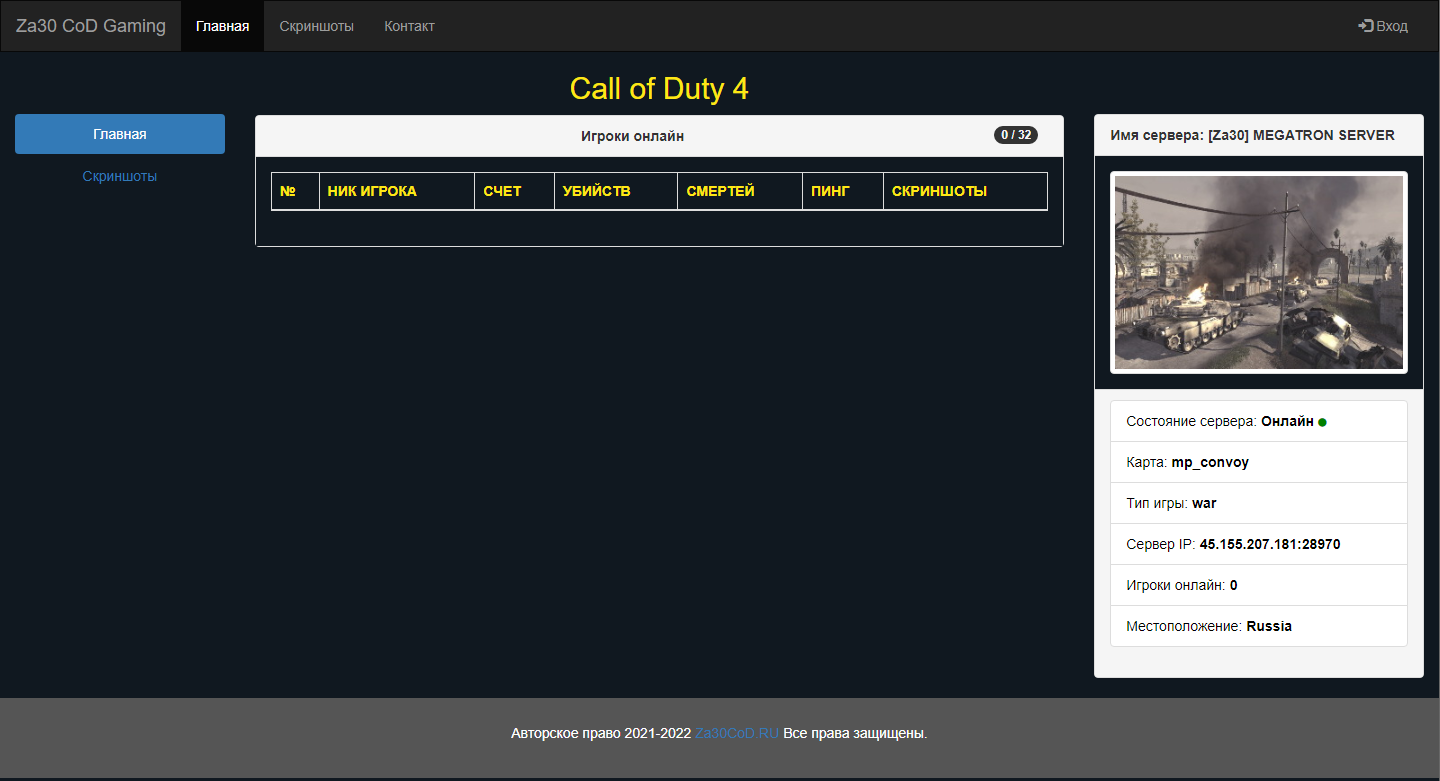
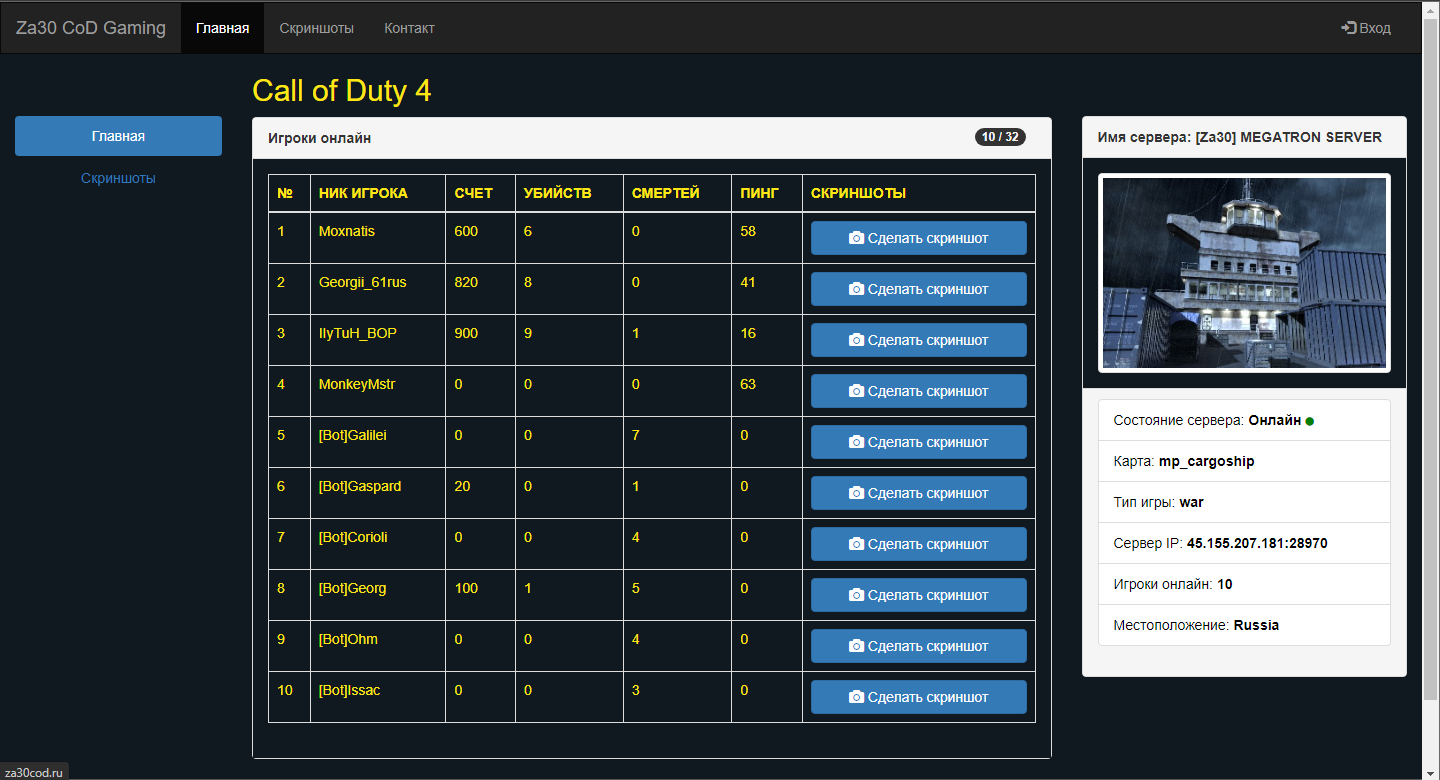
update v.0.3.0

diff --git a/index.php b/index.php
@@ -122,7 +122,7 @@ foreach($xml->Game->Data as $Game_data){
         <span class="icon-bar"></span>
         <span class="icon-bar"></span>                        
       </button>
-      <a class="navbar-brand" href="http://45.155.207.181">Za30 CoD Gaming</a>
+      <a class="navbar-brand" href="http://za30cod.ru">Za30 CoD Gaming</a>
     </div>
     <div class="collapse navbar-collapse" id="myNavbar">
       <ul class="nav navbar-nav">
@@ -155,7 +155,7 @@ foreach($xml->Game->Data as $Game_data){
         <li><a href="http://45.155.207.181/screenshots/">Скриншоты</a></li>
       </ul>
     </div>
-    <div class="col-sm-7 text-center">
+    <div class="col-sm-7 text-left">
 	 <h2><?php echo $game_name;?></h2>
 	  <div class="panel panel-default">
 		<div class="panel-heading"><b>Игроки онлайн</b><span class="badge navbar-right" style="margin-right: 10px"> <?php echo $players_online.' / '. $max_players;?></span></div>
@@ -251,7 +251,7 @@ $(document).ready(function(){
 </script>
 
 <footer class="container-fluid text-center">
-<p>Авторское право 2021-2022 <a href="http://45.155.207.181">Za30CoD.RU</a> Все права защищены.</p>
+<p>Авторское право 2021-2022 <a href="http://za30cod.ru">Za30CoD.RU</a> Все права защищены.</p>
 </footer>
 
 </body>

diff --git a/screenshots/index.php b/screenshots/index.php
@@ -54,12 +54,12 @@ $src_folder = '/home/cod4_1/.callofduty4/screenshots'; # change to desired direc
         <span class="icon-bar"></span>
         <span class="icon-bar"></span>                        
       </button>
-      <a class="navbar-brand" href="http://45.155.207.181">Za30 CoD Gaming</a>
+      <a class="navbar-brand" href="http://za30cod.ru">Za30 CoD Gaming</a>
     </div>
     <div class="collapse navbar-collapse" id="myNavbar">
       <ul class="nav navbar-nav">
         <li><a href="http://45.155.207.181">Главная</a></li>
-        <li class="active"><a href="http://45.155.207.181/screenshots">Скриншоты</a></li>
+        <li class="active"><a href="http://45.155.207.181/screenshots/">Скриншоты</a></li>
         <li><a href="#" data-toggle="modal" data-target="#contactModal">Контакт</a></li>
 	<!-- Modal -->
       <div class="modal fade alert alert-info" id="contactModal" role="dialog">
@@ -191,7 +191,7 @@ for($i=1;$i<=5;++$i){
 <br>
 
 <footer class="container-fluid text-center">
-  <p>Авторское право 2021-2022 <a href="http://45.155.207.181">Za30CoD.RU</a> Все права защищены.</p>  
+  <p>Авторское право 2021-2022 <a href="http://za30cod.ru">Za30CoD.RU</a> Все права защищены.</p>  
 </footer>
 
 </body>

diff --git a/README.md b/README.md
@@ -21,12 +21,14 @@
 1. Клонируйте файлы в папку webroot или подкаталог.
 2. Отредактируйте строки "с 13 по 16" в "index.php".
 3. Отредактируйте строки "14 , 15 , 16" в "rcon.ini.php".
+4. Заменить IP адрес/домен на свой.
 
 Теперь для отображения изображений из любого каталога в веб - браузере
 
 1. Изменить каталог в "строке 10" в "screenshots/index.php"
 2. Изменить каталог в "строке 4" в "screendhots/file_viewer.php"
-3. Наслаждаться.
+3. Заменить IP адрес/домен на свой.
+4. Наслаждаться.
 
 
-Увидеть проект вживую на www.za30cod.ru
+Увидеть проект вживую на http://45.155.207.181
